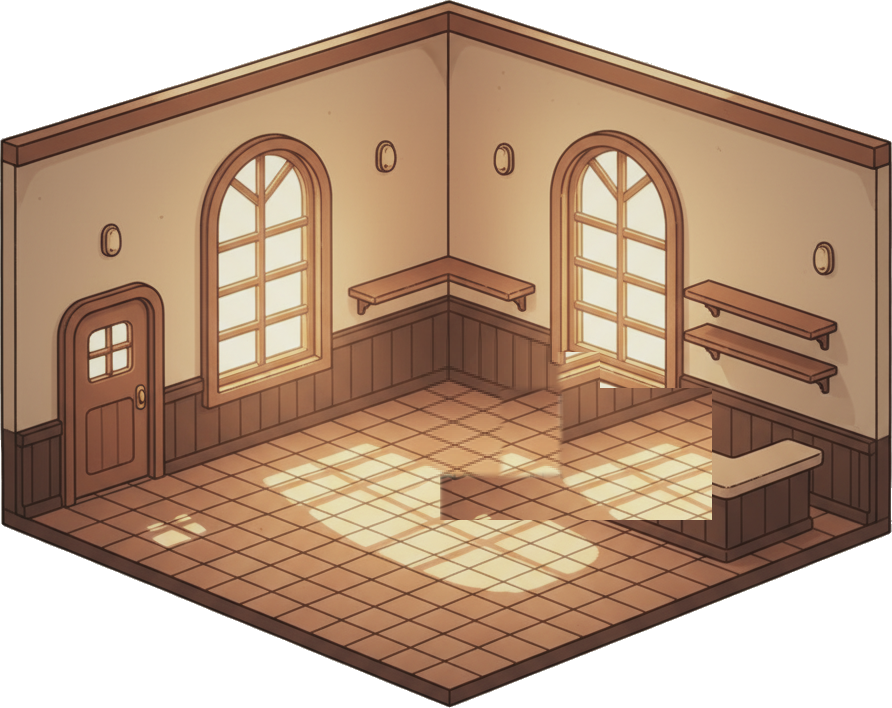
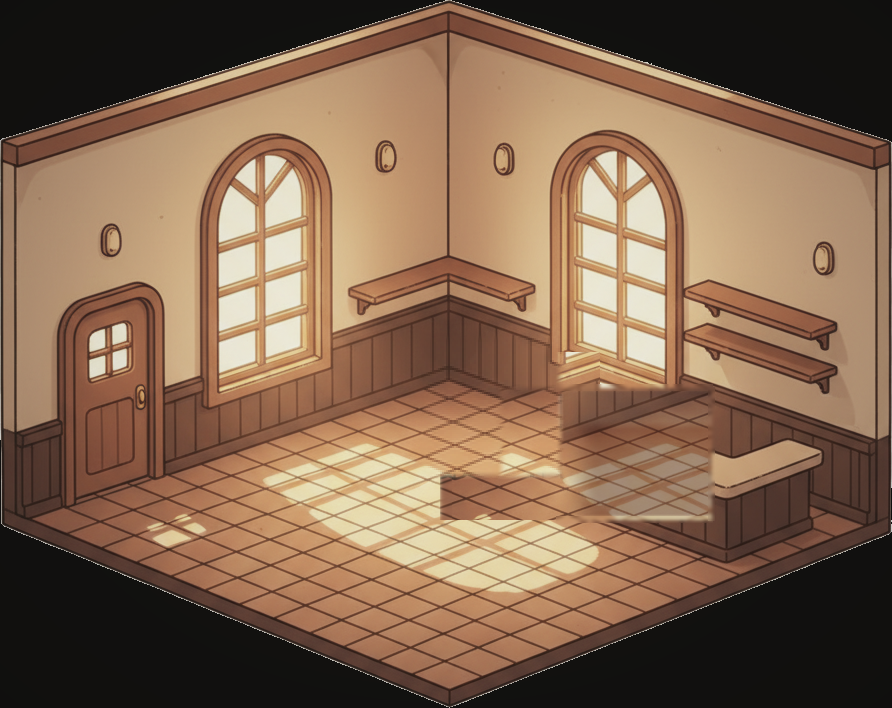
fix: décor calibration on v04 stage + soften baked-in inpaint patch
Playtest feedback: the wall clock hung inside the left window, the floor
lamp floated inside the right window, and a bright rectangular patch sat
mid-image left of the counter.

- Clock: 23 %/30 % → centered on the free wall strip between the windows
  (v04 glass spans 24.7–33.6 % / 65.4–74.4 % of the stage image), anchored
  via left + translateX(-50%) so the px-sized sprite stays centered at any
  viewport. Sits in the gap between the two wall vents.
- Lamp: 65 %/top 26 % → centered on 59.5 % with bottom: 37 %, pinning the
  base to the painted wall/floor line (~63 % height) at every viewport and
  for every tier size.
- Stage PNG: the v04-nofurniture inpaint left a hard-edged, over-bright
  patch (x 556–711, y 387–519) with a baked-in sun pool. Band-wise linear
  color match (wainscot/floor) with smoothstep falloff + feathered seams
  tones it to ambient. Interim fix — the tile misalignment inside the patch
  needs a real repaint (tracked in a follow-up art issue).
- CLAUDE.md: updated the stale lamp geometry note.

Verified in preview: clock centered at 49.5 % between the vents, lamp base
at exactly 63 % on the floor line. 308 tests pass.

diff --git a/src/styles/global.css b/src/styles/global.css
@@ -1858,8 +1858,12 @@ button.cafe-table {
    ── */
 .cafe-decor-clock {
   position: absolute;
-  left: 23.0%;
-  top: 30.0%;
+  /* Wall strip between the windows — glass spans 24.7–33.6 % / 65.4–74.4 %
+     of the v04 stage image, so 23 % hung the clock inside the left window.
+     translateX centers the px-sized sprite on the anchor at every viewport. */
+  left: 49.5%;
+  top: 19.0%;
+  transform: translateX(-50%);
   z-index: 8;
   width: 56px;
   height: 56px;
@@ -1887,11 +1891,15 @@ button.cafe-table {
  * Floor lamp. Stands between the two back-wall windows (right side).
  * Base anchored to the CSS bottom edge (center bottom / contain) so
  * the pole base sits on the floor regardless of tier size change.
+ * 65 % + top floated it inside the right window (glass starts at 65.4 %);
+ * now the sprite centers on 59.5 % via translateX and its base is pinned
+ * to the v04 wall/floor line (~63 % height) via bottom, at every viewport.
  */
 .cafe-decor-lamp {
   position: absolute;
-  left: 65.0%;
-  top: 26.0%;
+  left: 59.5%;
+  bottom: 37.0%;
+  transform: translateX(-50%);
   z-index: 4;
   width: 40px;
   height: 64px;

diff --git a/CLAUDE.md b/CLAUDE.md
@@ -19,7 +19,7 @@ KRITISCHE Regel: Immer auf gescheite Diversität der Figuren achten (Hauttöne, 
 
 ## Diorama-Geometrie (nicht neu herleiten!)
 
-**Aktueller Raum: Stage-PNG-Diorama** — gemaltes PNG als Hintergrund. `.cafe-stage-base { display: block }`. Décor-Sprites (clock/lamp/cups/shelf/plant) sind aktiv als CSS-Overlays. Lamp: `top: 18%` in `.cafe-decor-lamp`.
+**Aktueller Raum: Stage-PNG-Diorama** — gemaltes PNG als Hintergrund. `.cafe-stage-base { display: block }`. Décor-Sprites (clock/lamp/cups/shelf/plant) sind aktiv als CSS-Overlays. Clock/Lamp sind center-verankert (`left` + `translateX(-50%)`); Lamp steht per `bottom: 37%` auf der Boden-Linie (v04-Fensterglas: 24,7–33,6 % und 65,4–74,4 % Bildbreite, Wand/Boden-Linie ≈ 63 % Höhe).
 
 **WICHTIG: NIEMALS `.cafe-back-wall` oder `.cafe-side-wall` sichtbar machen oder `.cafe-stage-base` auf `display:none` setzen** — das bricht das Diorama-Layout komplett. Diese sind Positionierungs-Container, nicht visuelle Layer.
 